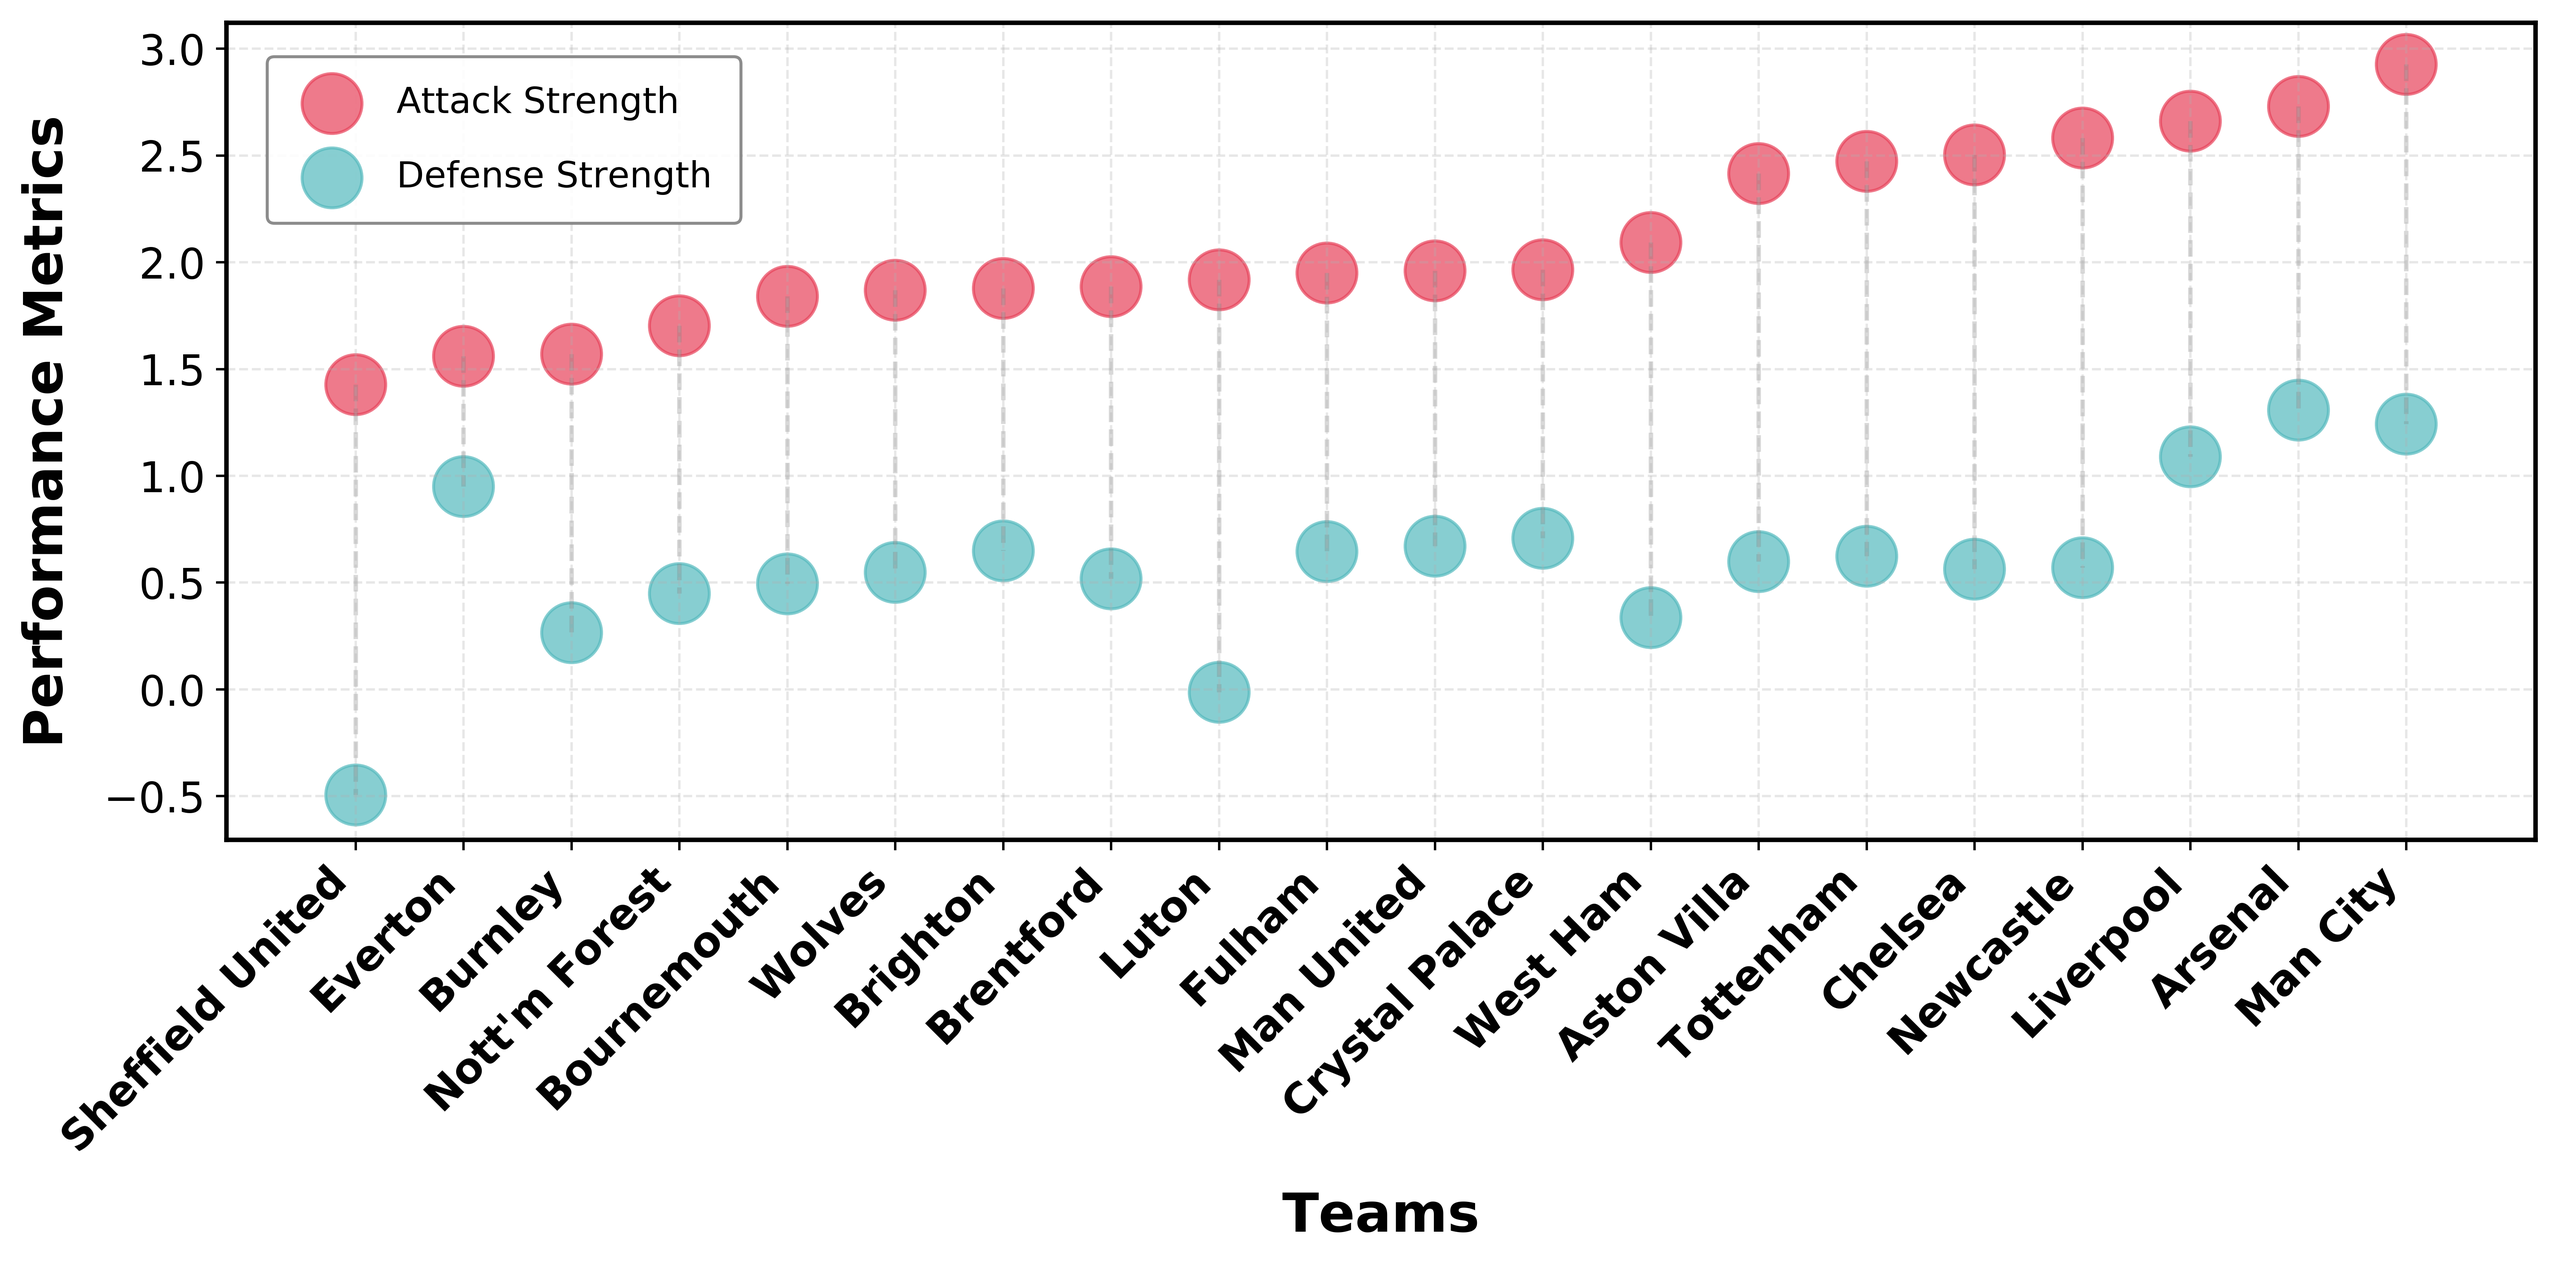
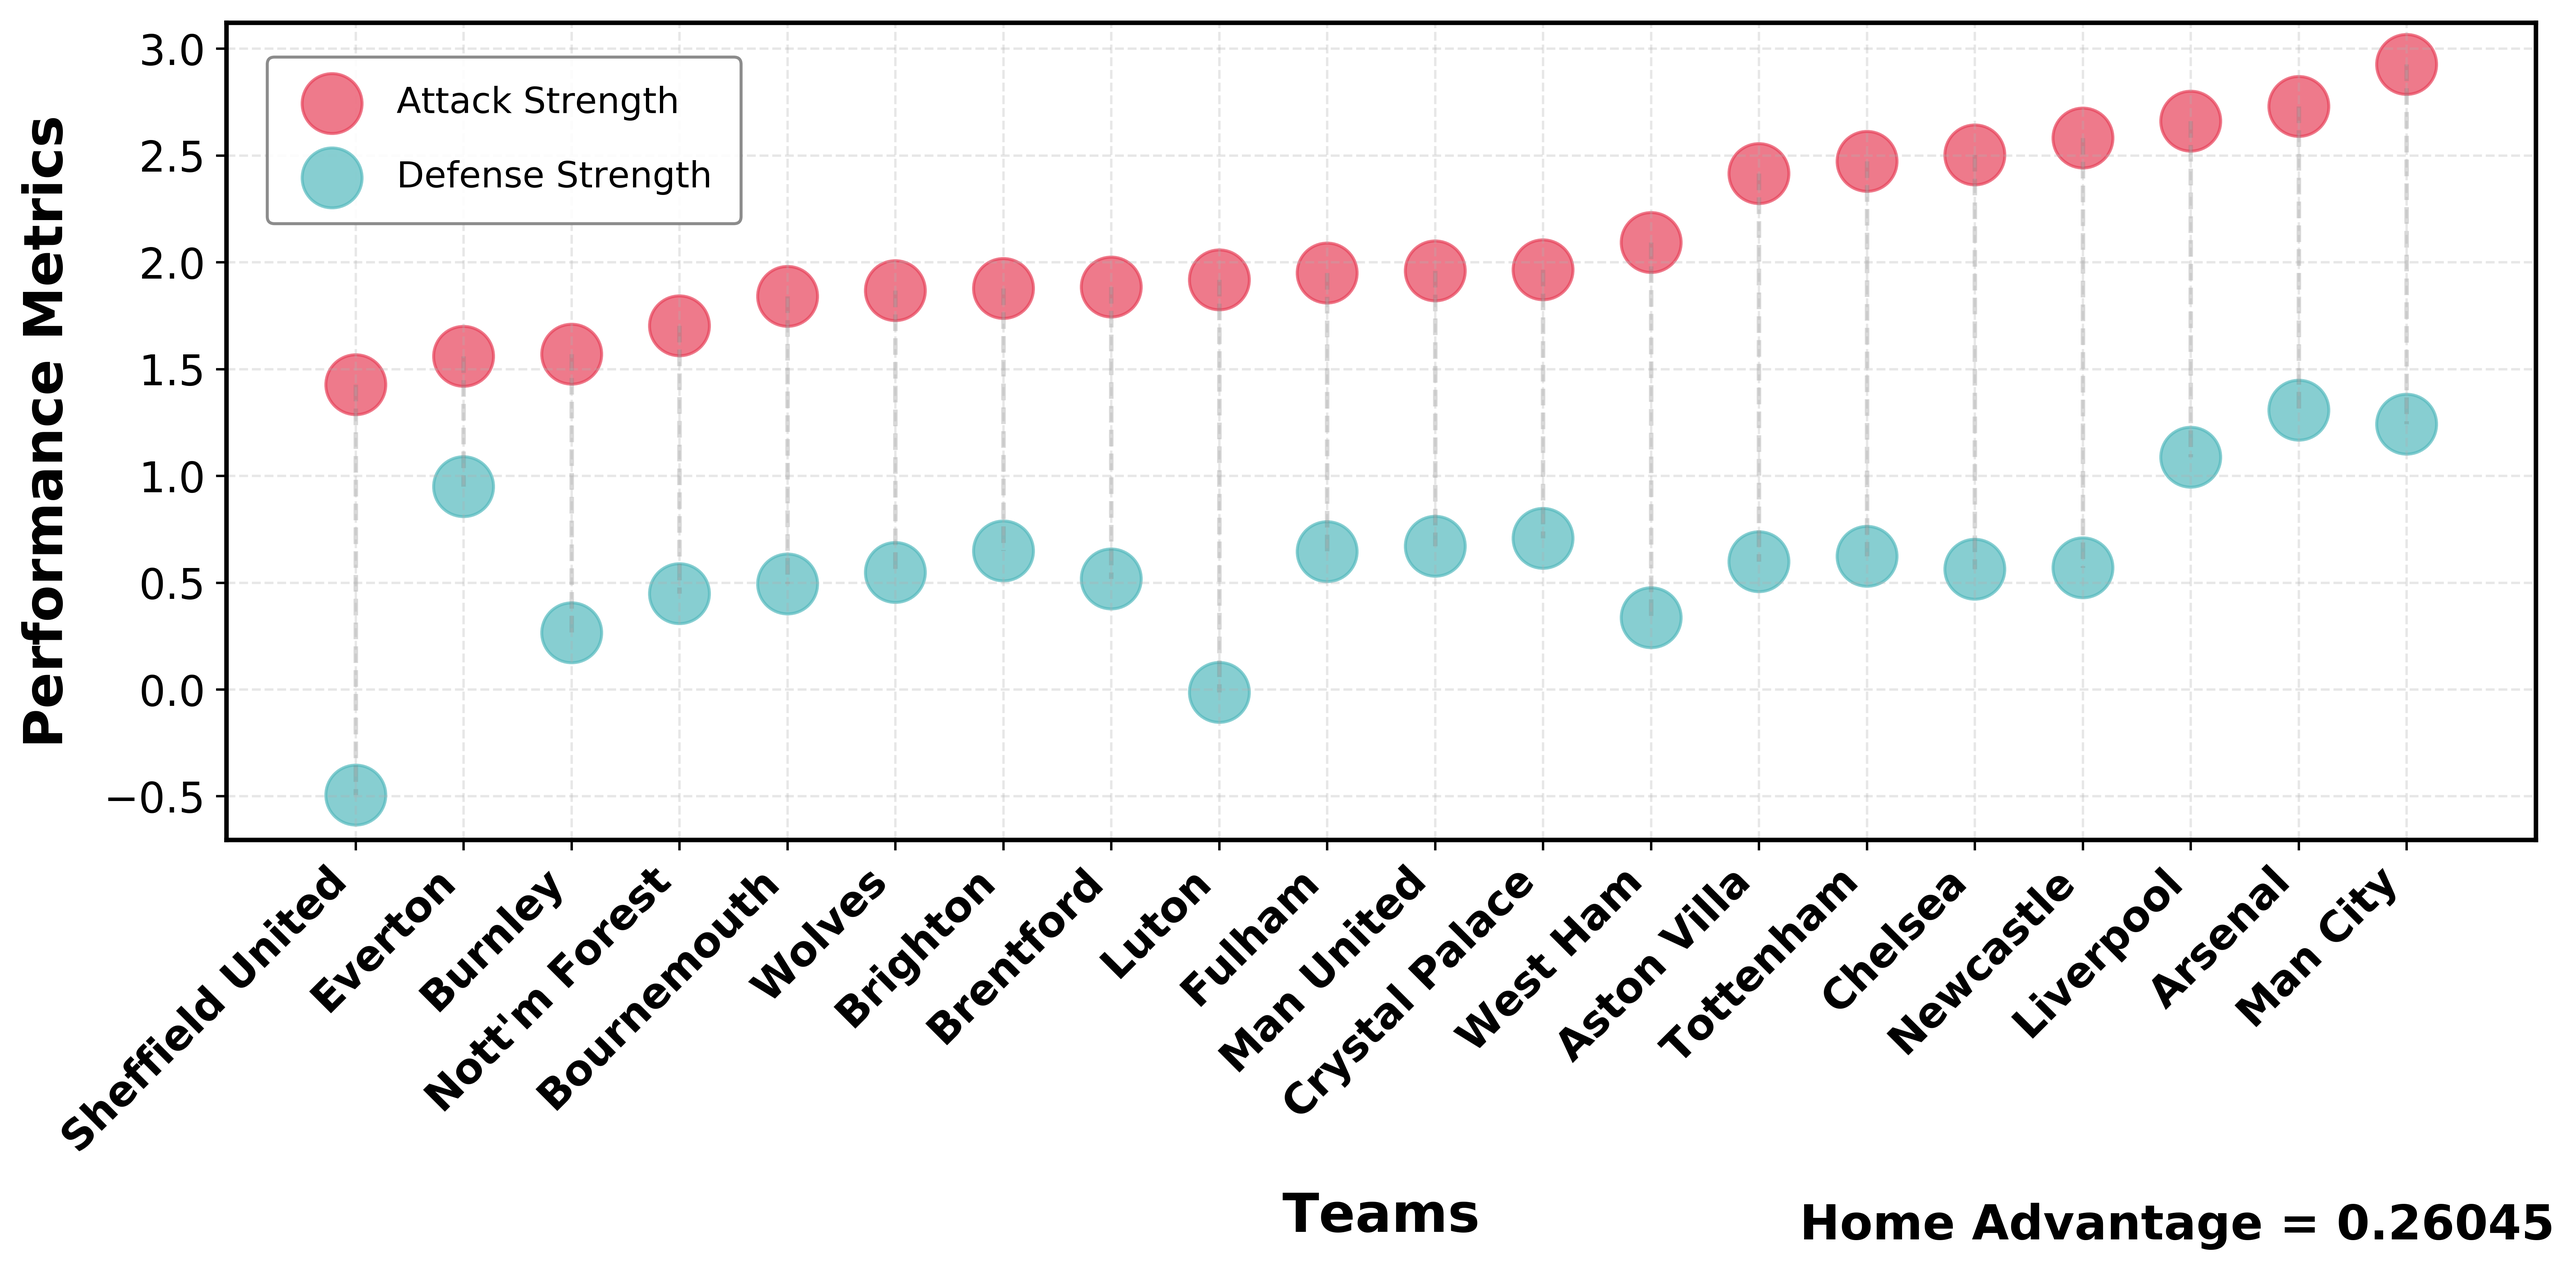
feat(poisson): add homeadvantage for visualizaiton

diff --git a/model/poisson/visualize/visualize.py b/model/poisson/visualize/visualize.py
@@ -25,8 +25,8 @@ DEFENSE_COLOR = '#55babe'
 
 # Read and sort data
 base_dir = Path(__file__).parent.parent if '__file__' in locals() else Path.cwd()
-#file_path = base_dir / "lambdas" / "mle-L-BFGS-B-lambdas" / "2023-2024-parameters.csv"
-file_path = base_dir / "lambdas" / "mle-LS-lambdas" / "2023-2024-parameters.csv"
+file_path = base_dir / "lambdas" / "mle-L-BFGS-B-lambdas" / "2023-2024-parameters.csv"
+#file_path = base_dir / "lambdas" / "mle-LS-lambdas" / "2023-2024-parameters.csv"
 data = pd.read_csv(file_path)
 data = data.sort_values('Attack', ascending=True)  # Sort by attack strength
 
@@ -70,9 +70,25 @@ legend.get_frame().set_edgecolor('gray')
 # Adjust layout
 plt.tight_layout()
 
+xlabel_obj = ax_main.xaxis.get_label()
+xlabel_pos = xlabel_obj.get_position()
+text_content = f"Home Advantage = {float(data['HomeAdvantage'][0]):.5f}"
+ax_main.text(
+    0.7,  
+    0.02,  
+    text_content,
+    fontsize=16,  fontweight='bold',
+    ha='left',  
+    va='bottom',  
+    transform=fig.transFigure  
+)
+
 # Save with high quality
-#plt.savefig('.\model\poisson\lambdas\L-BFGS-B_analysis.png',
-plt.savefig('.\model\poisson\lambdas\LS_analysis.png',
+base_dir = Path(__file__).parent.parent if '__file__' in locals() else Path.cwd()
+save_path = base_dir / "lambdas" / "L-BFGS-B_analysis.png"
+#save_path = base_dir / "lambdas" / "LS_analysis.png"
+
+plt.savefig(str(save_path),
             dpi=600,
             bbox_inches='tight',
             facecolor='white',
